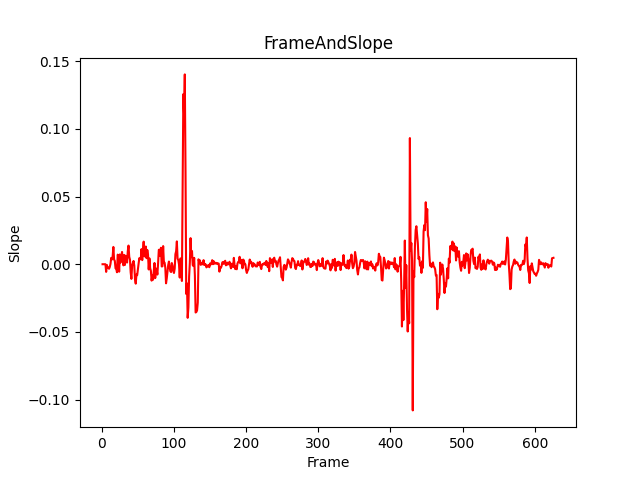
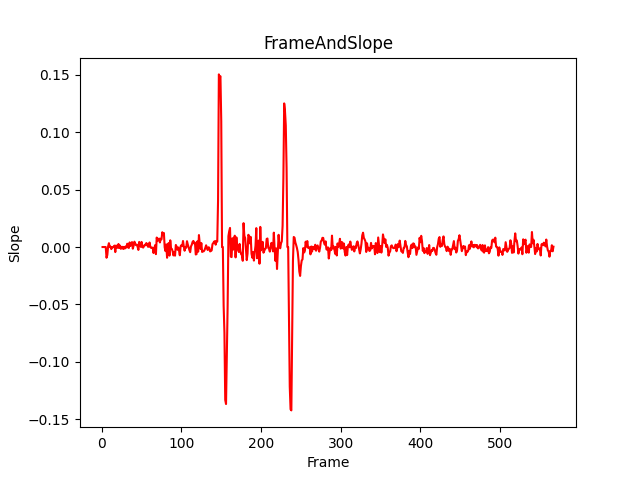
added occlusion lasting control

diff --git a/main.py b/main.py
@@ -266,7 +266,7 @@ while True:
 
         # if edges and Bhattacharyya value changes a lot, means occlusion occurs
         if (edge_weight < edge_weight_template / 1) and (slope < -0.02):
-            print("occlusion occurs")
+            print("occlusion occurs at frame ", count_frame, "and occlusion start at ", occlusion_start_frame)
             cv2.putText(frame, "occlusion occurs", (50, 100), font, 1, (0, 255, 0), 1, cv2.LINE_AA)
             
             # if not occlusion yet
@@ -274,12 +274,10 @@ while True:
                 occlusion_flag = True
                 occlusion_start_frame = count_frame
             #if this a consquence occlusion
-            else :
-               
-                
+            else :  
                 # if occlusion lasting longer than 1 second, 30 frames;
                 # we need to change to non-occlusion case, in order to make sure KF tracker wont give wrong result
-                if (count_frame  - occlusion_start_frame) > 30:
+                if (count_frame  - occlusion_start_frame) > 4:
                     print("occlusion too long" )
                     occlusion_flag = False
                     occlusion_start_frame = None
